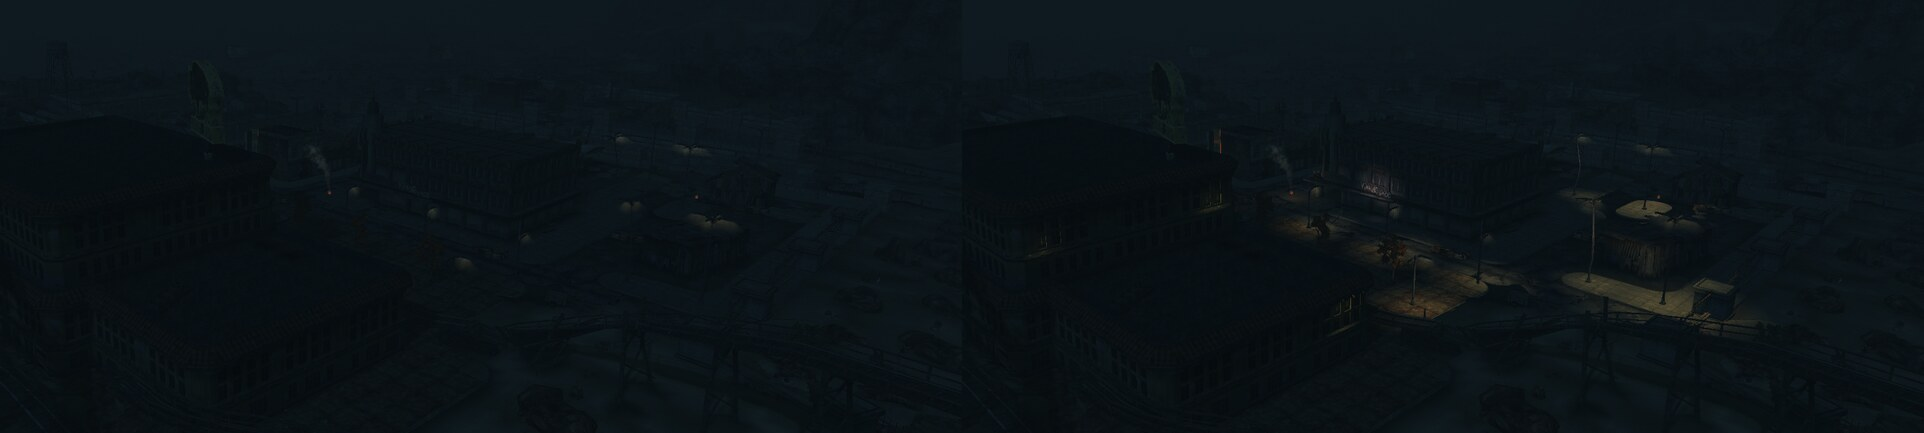
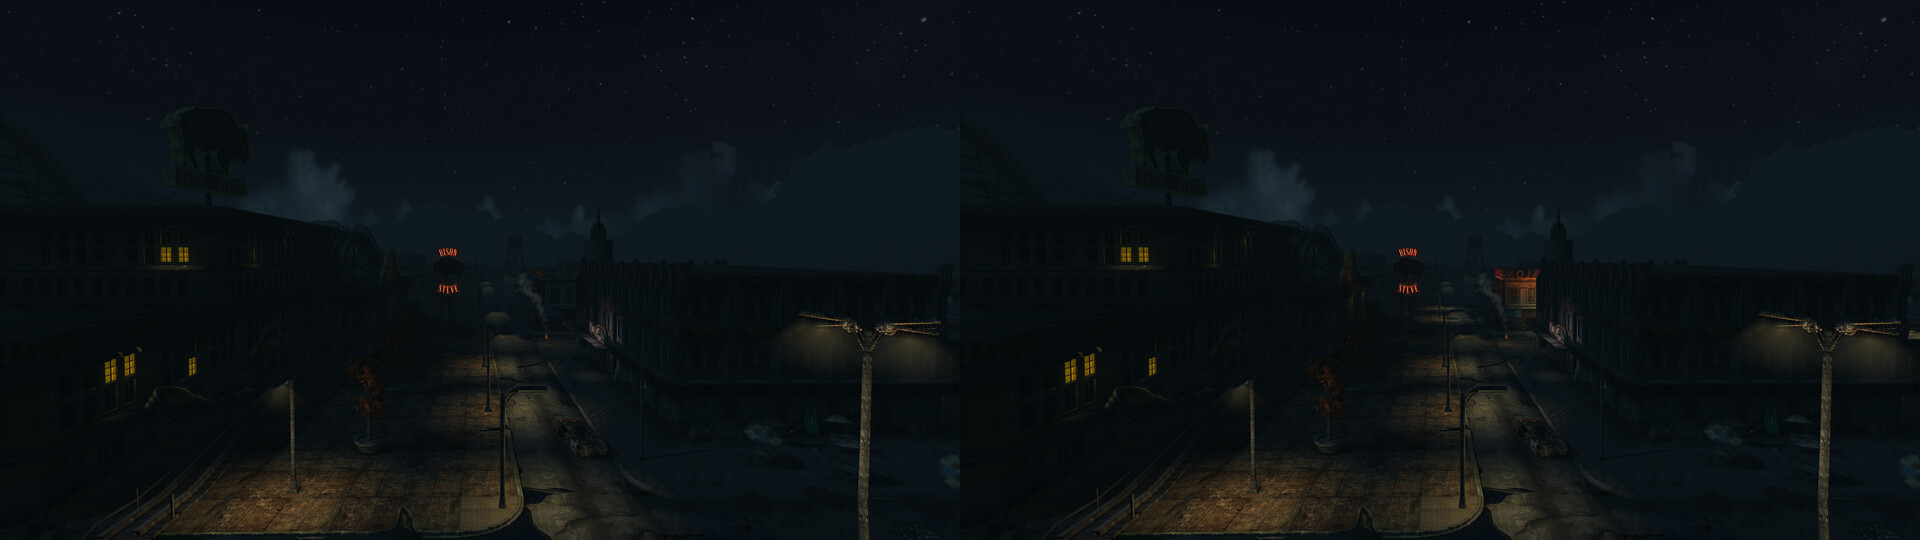
docs(readme): Primm lamps picture from the main road (#920)
Replaces the README's Primm at night picture (#919), a dark view from a
hill, with the view down Primm's main road, where the change is easy to
see: before, only the nearest lamps light the road; with the modern
preset, the lamps further down the street light the road and the shop
fronts too. Same proof run as #913 (Beautiful mod list, 2560x1440,
preset modern), full frame scaled to the README's picture width.

diff --git a/README.md b/README.md
@@ -35,7 +35,7 @@ An engine is the program that runs a game: it draws the world and runs its rules
 </p>
 
 <p align="center">
-  <img src="docs/fork/images/graphics-primm-lamps.jpg" alt="Primm at night seen from a hill, side by side: on the left the street lamps light almost nothing, on the right they light pools on the streets and squares" width="100%">
+  <img src="docs/fork/images/graphics-primm-lamps.jpg" alt="Primm's main road at night, side by side: on the left only the nearest lamps light the road, on the right the lamps further down the street light the road and the shop fronts too" width="100%">
   <br><em>Primm at night: lamps that fade out close by (left), and the <code>modern</code> preset (right), where every
   street lamp around you lights its ground.</em>
 </p>
